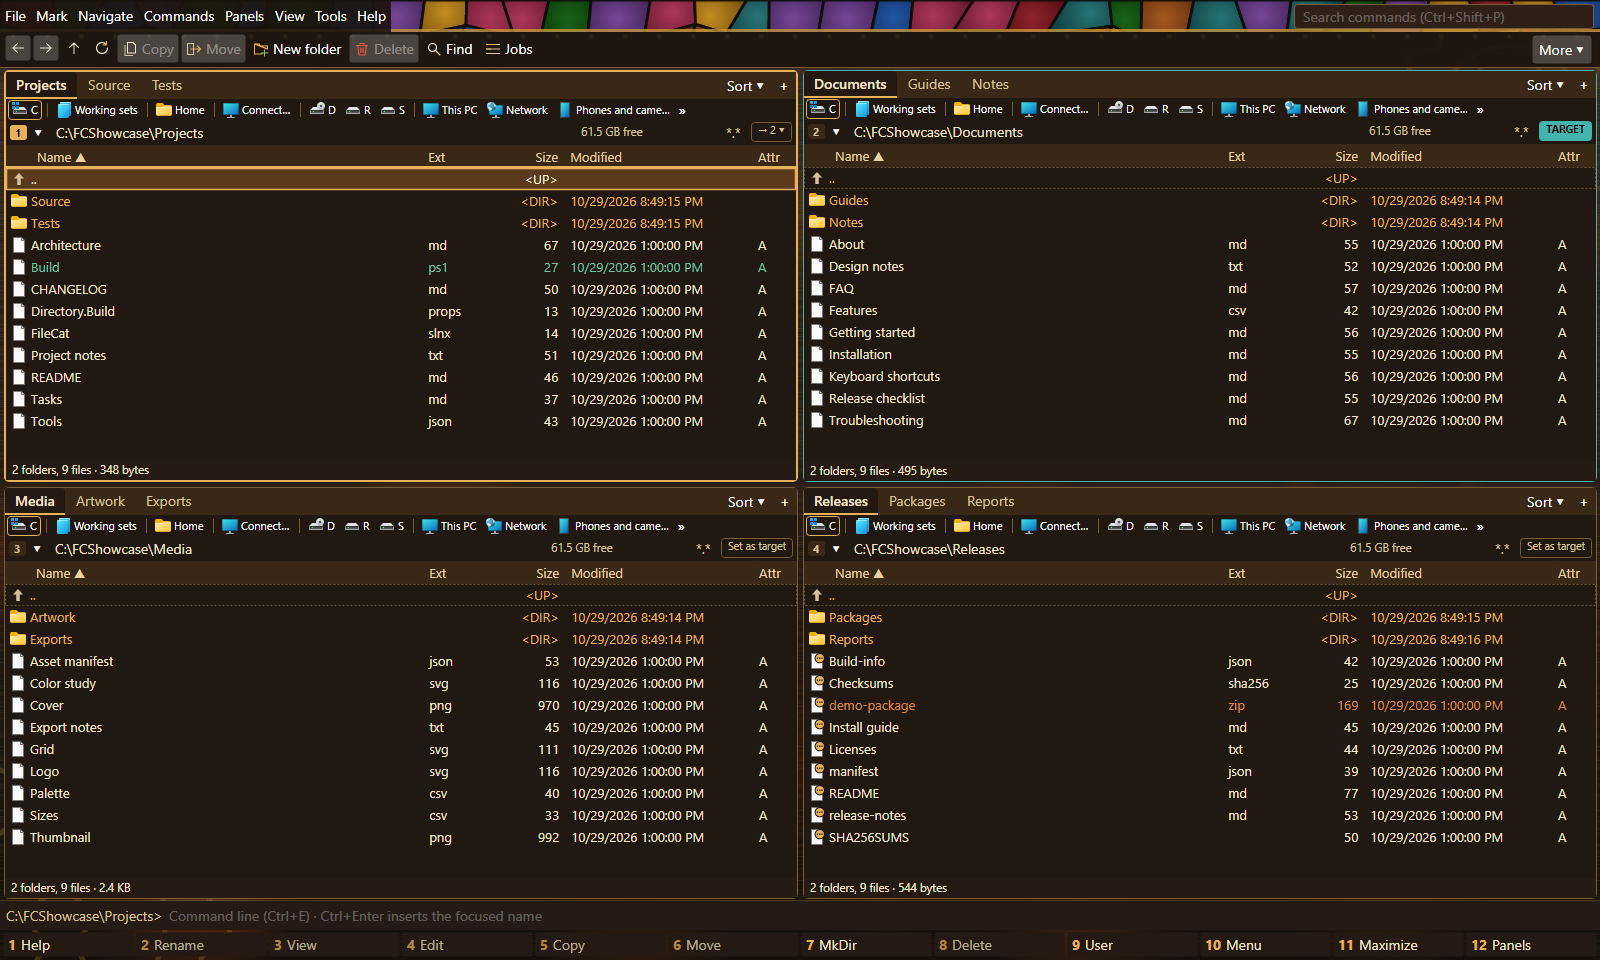
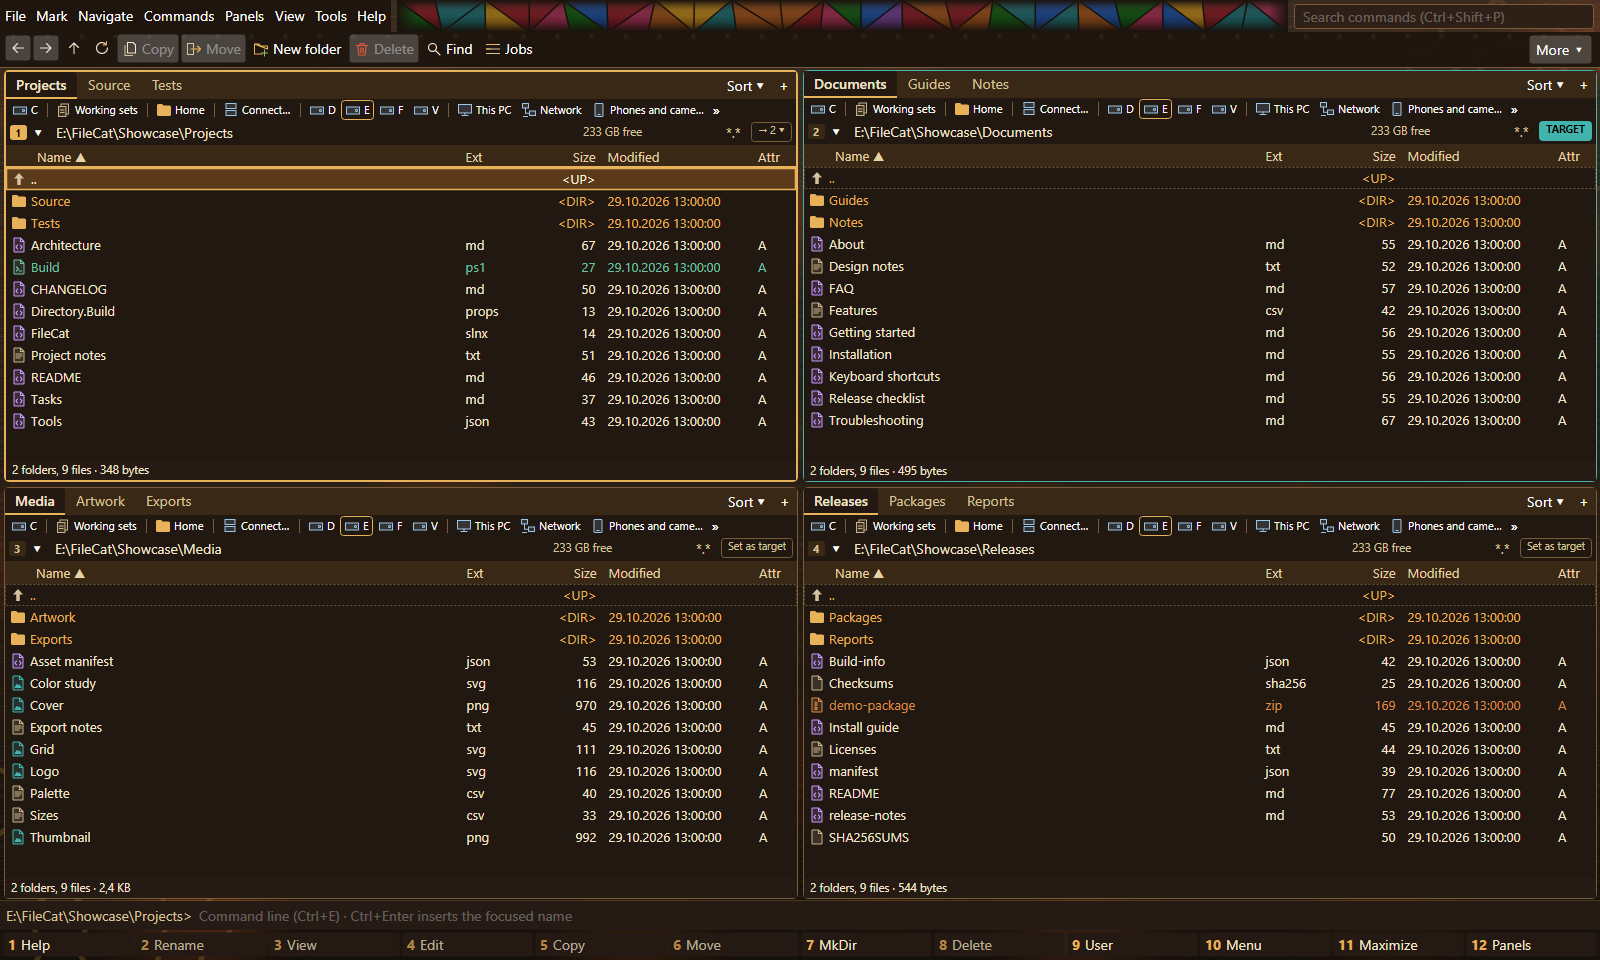
Prepare preview.6 notes and refresh Steampunk gallery

diff --git a/docs/release/1.0.0/PREVIEW6_RELEASE_NOTES.md b/docs/release/1.0.0/PREVIEW6_RELEASE_NOTES.md
@@ -1,0 +1,38 @@
+# FileCat 1.0.0-preview.6
+
+An unsigned preview for file work and inspection on Windows, Ubuntu and macOS. This is a prerelease for evaluation, not the stable 1.0.0 release.
+
+## What changed since preview.5
+
+- **Preview PDF pages in FileCat.** F3 now shows bounded PDF page images with page navigation and document Info. Damaged or encrypted files fall back to a clear error or byte view.
+- **Keep more of what a copy means.** Mac file and folder copies preserve supported resource forks, extended attributes and access-control lists, or refuse a transfer they cannot complete safely. Linux copies preserve POSIX access and default ACLs. Sparse local copies preserve holes on the checked Ubuntu and Windows paths, reducing avoidable disk allocation. Mac sparse-hole preservation remains unqualified.
+- **Avoid acting on the wrong Unix file.** FileCat refuses ambiguous Unix filenames whose invalid byte sequences collapse to the same displayed name. This conservative guard can also refuse a genuine name containing the replacement character; rename it with a byte-aware tool before using it in FileCat.
+- **Make Windows file actions reliable.** Right-click Properties opens FileCat's owned sheet; Send to compressed folder creates a verified ZIP; Copy and Cut publish the selected file paths; Share in Explorer hands off to the Windows Share UI. Cross-panel drags can now review FTPS transfers, Registry export or copy, and whole-drive contents copy. Two separate clicks on a filename start inline rename, while a double-click still opens it.
+- **Make navigation and review clearer.** Find states its archive-content limit; Flat View refreshes when its recursive search completes; hidden-item counts and saved column profiles are visible. Command search and comparison/synchronization rows have readable names for assistive technology, and shortcut editing has a direct search route.
+- **Improve platform details.** Mac Delete and Undo say Trash, Properties opens a FileCat filesystem record, Finder tags display their names, and a new text file opens with an available editor. Windows case-sensitive Git badges stay distinct. Slow SFTP host-key approval can recover without a manual refresh. The Steampunk header has connected glass with a softer edge blend.
+
+The [release evidence index](https://github.com/benny-cz/FileCat/blob/main/docs/release/1.0.0/FILECAT_1_0_RELEASE_EVIDENCE_INDEX.md) records bounded source and native checks for these changes. The preview does not establish signed-package or installed stable-candidate qualification.
+
+## Choose a package
+
+| System | Packages | Notes |
+|---|---|---|
+| Windows 11 x64 | Setup, self-contained portable ZIP, framework-dependent ZIP | The setup includes the administrator-helper route. The framework-dependent ZIP needs the matching .NET desktop runtime and has no helper. Setup filenames omit `preview.6`; the app reports the preview version. |
+| Windows 11 ARM64 | Native ARM64 setup and ZIPs | Hosted ARM64 build, tests and package start are required for this preview. Physical ARM64 hardware is not a qualified stable tier. Setup filenames likewise omit `preview.6`. |
+| Ubuntu 24.04/26.04 x64 with GNOME | `.deb`, AppImage, portable `.tar.gz` | Other distributions and desktops are outside this preview's claimed support. |
+| macOS 26+ on Apple silicon | `.app` ZIP | Ad-hoc signed, not notarized. On first start, use **Open Anyway** in System Settings → Privacy & Security and confirm. |
+
+See the [capability matrix](https://github.com/benny-cz/FileCat/blob/main/docs/CAPABILITIES.md) for actions that differ by platform and location.
+
+## Before working on important data
+
+- Keep a separate backup. Recovery scans request read-only source access, but a mounted operating system can still change its own filesystem metadata. Recover to another physical disk; use a disk image or storage-level read-only protection when source bytes must stay unchanged. Ext4 and APFS undelete are not supported.
+- Remote and device locations do not all have Recycle Bin or Trash support. Review the displayed delete mode and result. Replace guarantees also vary by provider.
+- Treat unfamiliar files as untrusted. Page preview disables page scripts and network requests. Picture and PDF workers have platform-specific restrictions, but process separation is not complete containment for every parser and helper.
+- Windows packages have no trusted release signature. Windows may warn about or block an unknown unsigned app. The macOS bundle is ad-hoc signed and needs the first-start step above. There is no automatic updater. Report suspected security issues through [private vulnerability reporting](https://github.com/benny-cz/FileCat/security/policy).
+
+## Verify the downloads
+
+The release contains a `*-assets.json` manifest for each platform, with the SHA-256 and byte size of its packages, SBOMs and the Linux AppImage runtime source bundle. Match a downloaded file to its platform manifest. The hosted inventories and their independent verification will be recorded in the release evidence before publication.
+
+This remains an unsigned prerelease. Stable 1.0.0 remains NO-GO.

diff --git a/docs/screenshots/CAPTURE-2026-11-02-STEAMPUNK.md b/docs/screenshots/CAPTURE-2026-11-02-STEAMPUNK.md
@@ -1,0 +1,25 @@
+# Steampunk gallery refresh — 2 November 2026
+
+The [README Steampunk image](windows/Steampunk.png) is an unretouched 1600 × 960 render of
+FileCat's actual `MainWindow` from current Windows development source. It replaces only the
+Steampunk image in the original [gallery capture](CAPTURE-2026-10-29.md), because product
+`6a22decd` changed the connected-glass header and its edge blend. The native Windows VM
+[visual comparison](../validation/evidence/E-STEAMPUNK-HEADER-20261101.md) separately records
+the header change at wide and compact window sizes.
+
+- Source checkout: `6769693ace97788dc082cafaaf831f165f2b7807`; the most recent product
+  change is `014a6472`.
+- `eng/Screenshots/Program.cs` SHA-256:
[1 lines of base64/hex data omitted]
+- `eng/Screenshots/prepare-showcase.py` SHA-256:
[1 lines of base64/hex data omitted]
+- The fixture generator created 56 synthetic files, four panels and three tabs per panel in
+  an owned `E:\FileCat\Showcase` directory. The harness selected `Steampunk`, rendered at
+  1600 × 960 after a three-second wait and explicitly dismissed its transient notification.
+- The screenshot harness Release build passed with zero warnings or errors using the pinned
+  .NET SDK 10.0.101 and serial MSBuild. The image was copied without crop, rescale or retouch.
+- Current image: 183,181 bytes; SHA-256
[1 lines of base64/hex data omitted]
+
+This is development-source presentation evidence, not an installed-package, native-interaction
+or stable-candidate acceptance check.

diff --git a/docs/screenshots/CAPTURE-2026-10-29.md b/docs/screenshots/CAPTURE-2026-10-29.md
@@ -1,10 +1,13 @@
 # Current-source gallery captures — 2026-10-29
 
-The ten PNGs prepared for the README show FileCat's actual `MainWindow`, rendered off-screen by
+The ten original PNGs prepared for the README show FileCat's actual `MainWindow`, rendered off-screen by
 `eng/Screenshots` on the named operating systems. They are **development-source
 visuals**, not screenshots of installed packages or final-candidate acceptance.
 The README gallery now uses the macOS Classic Dark capture in place of the visually similar
 Windows System capture; both files remain in this record.
+The Windows Steampunk gallery image was replaced on 2026-11-02 after its header changed;
+its [new capture record](CAPTURE-2026-11-02-STEAMPUNK.md) has the current hash. The Steampunk
+hash in the table below identifies the original 2026-10-29 image, not the current gallery file.
 The earlier [native Windows JPEG captures](windows/CAPTURE.md) remain unchanged
 with their separate interaction and restoration evidence.
 

diff --git a/README.md b/README.md
@@ -189,8 +189,9 @@ above. Classic, Psychedelic, DOS Commander and macOS Classic Dark are shown imme
 | [![FileCat High Contrast theme on Windows, four panels with three tabs each](docs/screenshots/windows/HighContrast.png)](docs/screenshots/windows/HighContrast.png) | [![FileCat Classic Dark theme on Ubuntu, four panels with three tabs each](docs/screenshots/ubuntu/ClassicDark.png)](docs/screenshots/ubuntu/ClassicDark.png) |
 
 These are real MainWindow renders from development source on their named operating systems.
-The [capture record](docs/screenshots/CAPTURE-2026-10-29.md) documents their producers; they do
-not establish installed-package or native-interaction acceptance.
+The [gallery capture record](docs/screenshots/CAPTURE-2026-10-29.md) documents the original set;
+the [updated Steampunk capture](docs/screenshots/CAPTURE-2026-11-02-STEAMPUNK.md) shows its
+connected-glass header. They do not establish installed-package or native-interaction acceptance.
 
 ## Platforms
 
